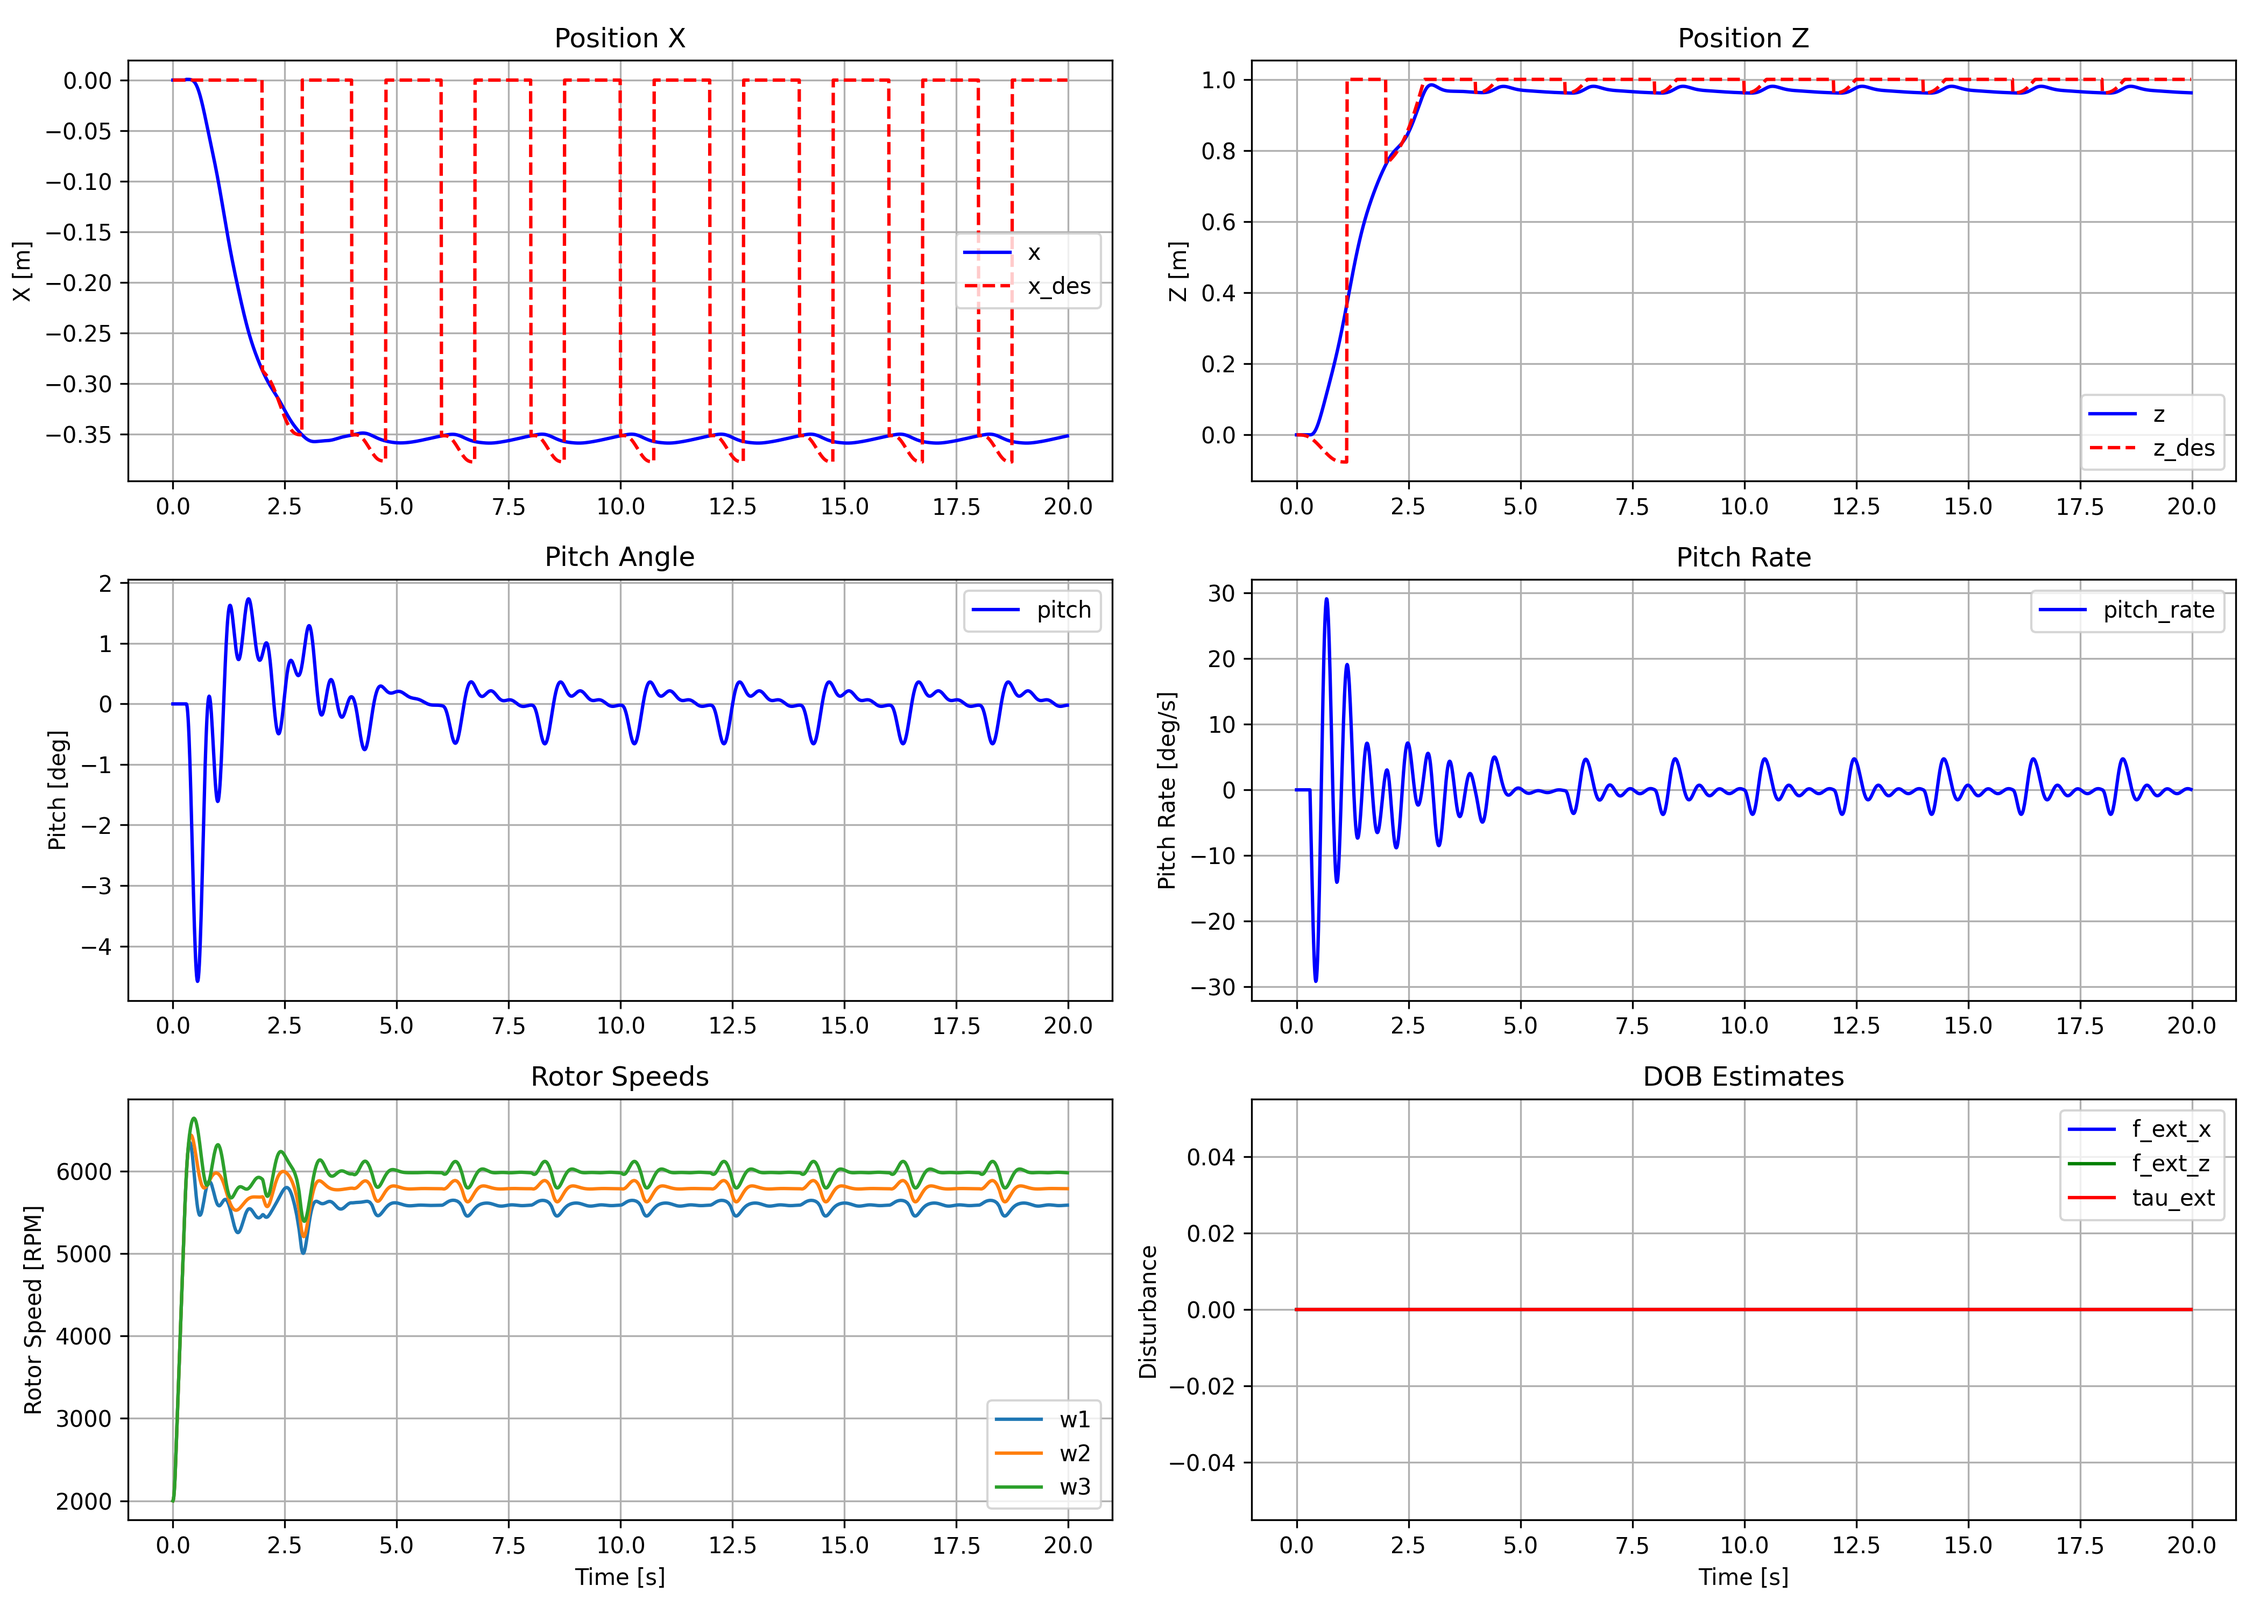
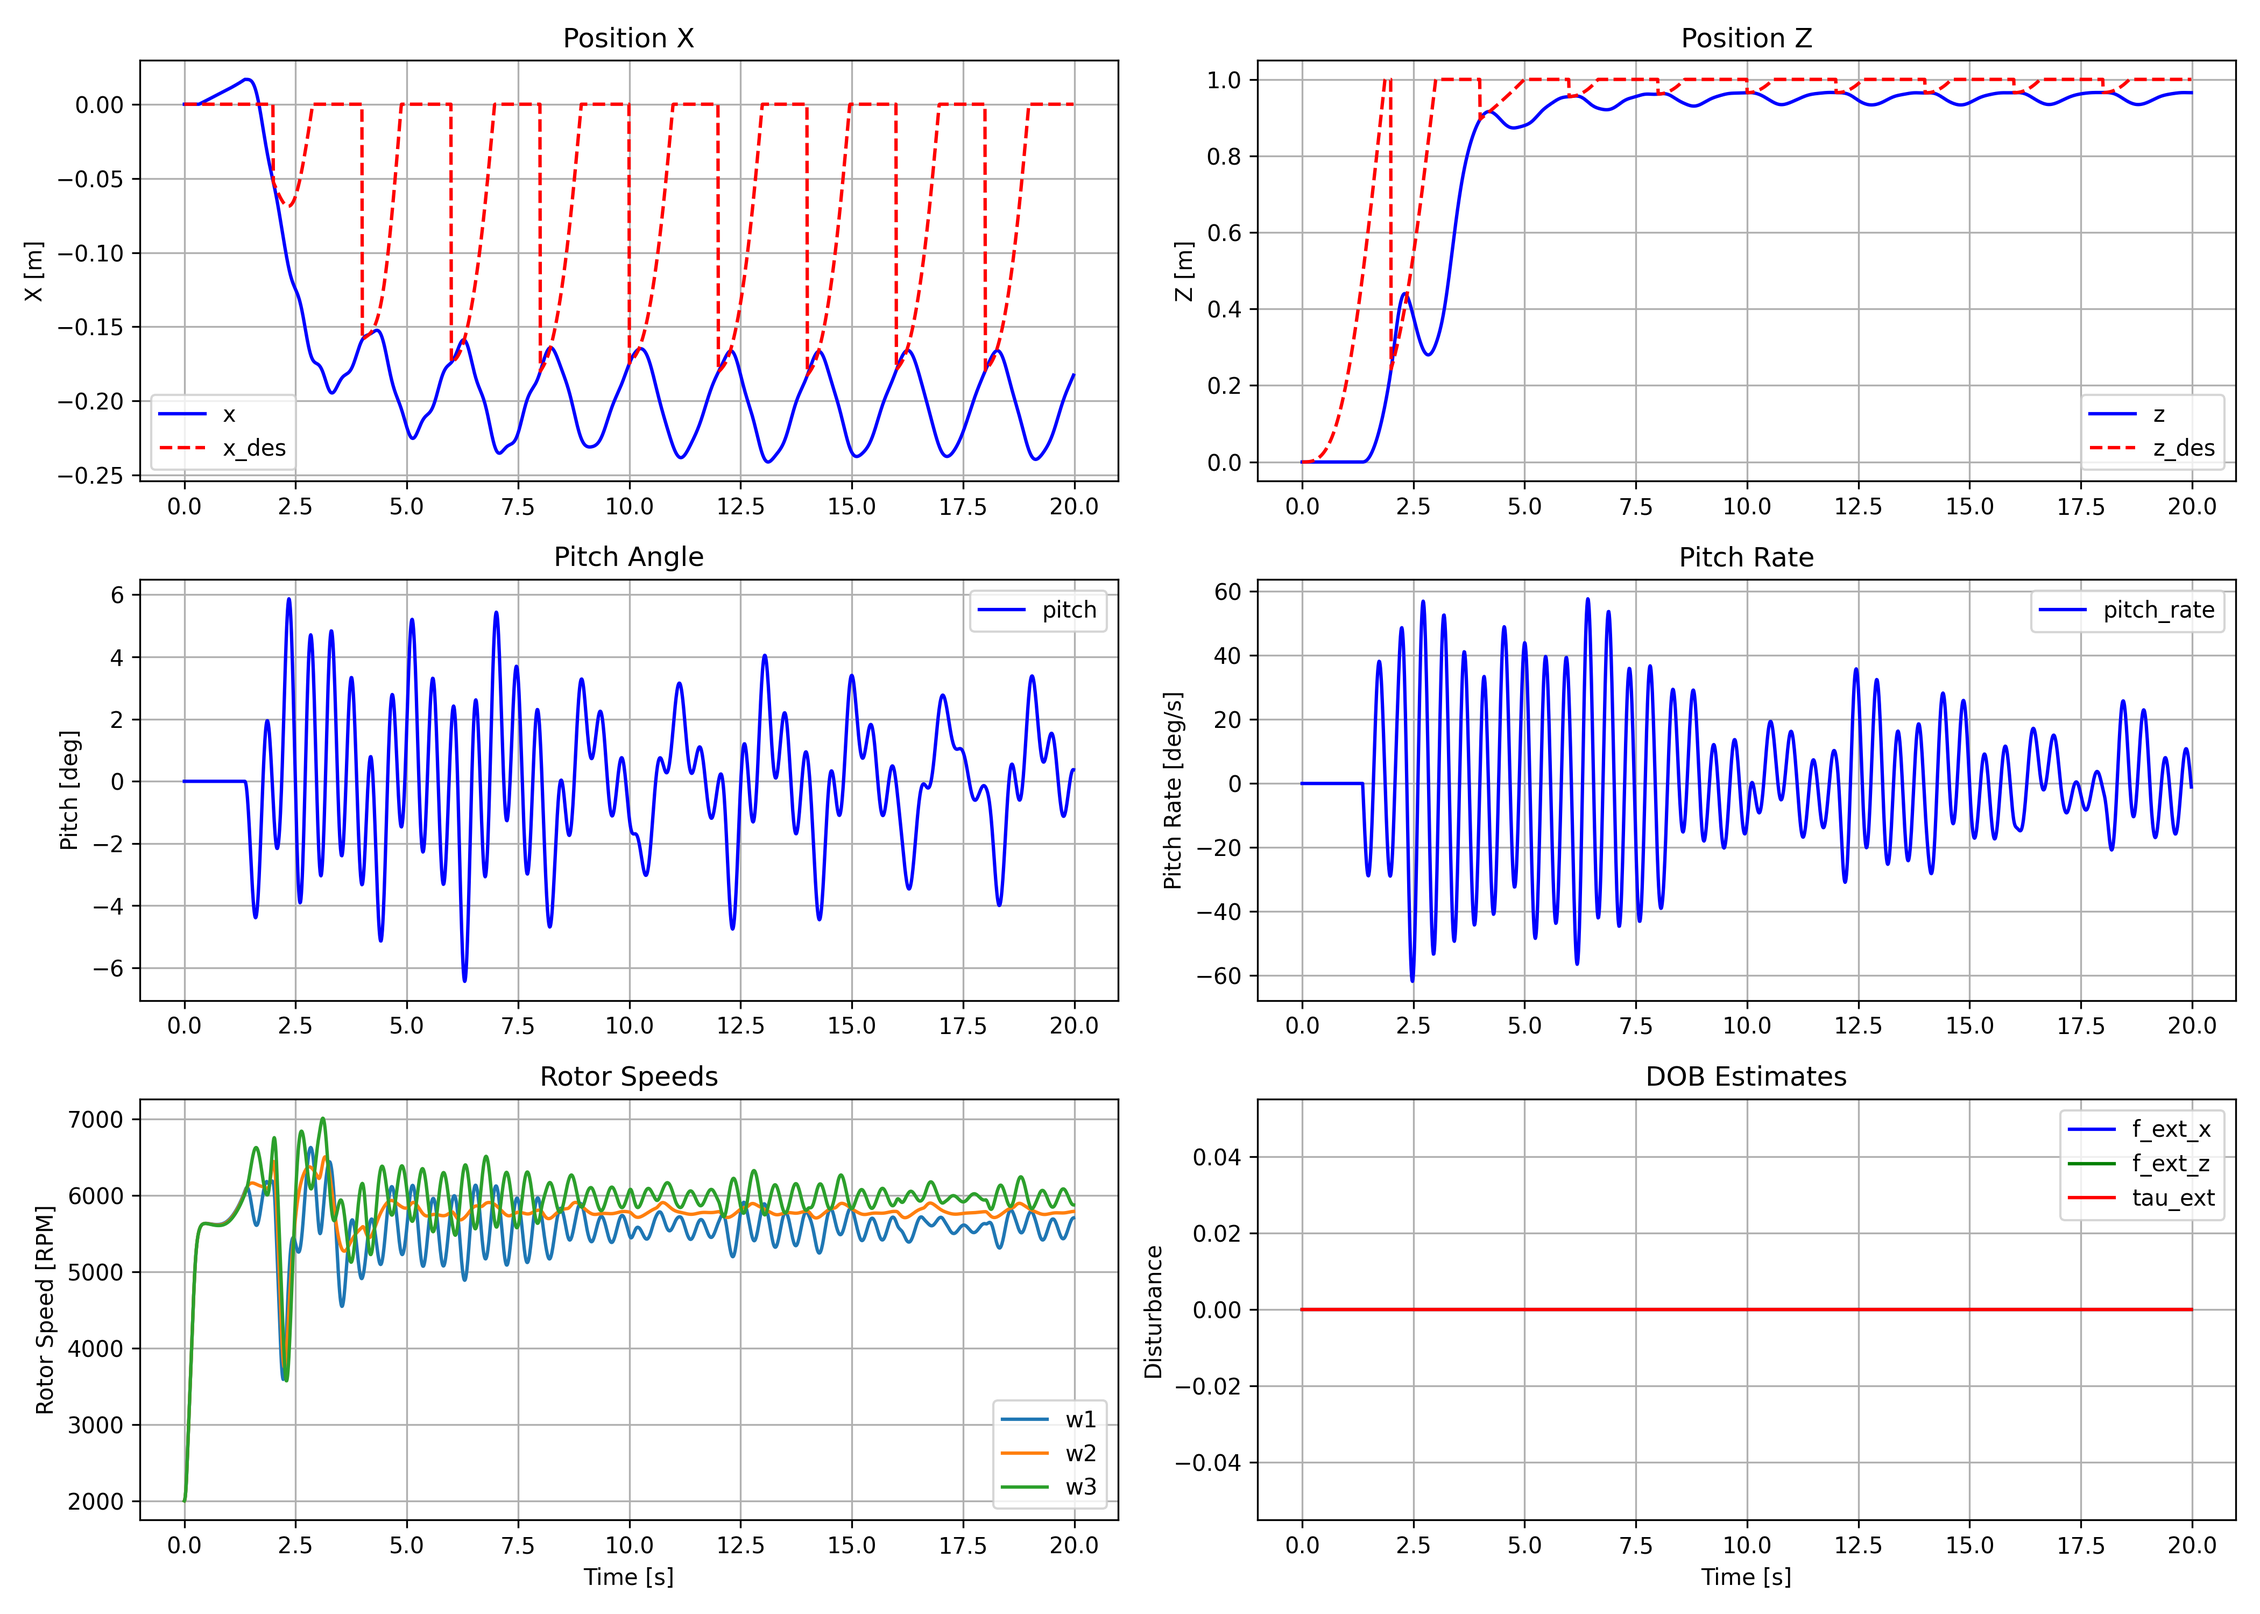
Simplify trajectory replanning with error-based Hehn trajectory
Refactored TrajectoryManager per user request:
- generate() now uses w0 = target - current_pos (error representation)
- Hehn trajectory drives error from w0 to zero
- Reference extraction: p_des = target - error(t), v_des = -d(error)/dt
- Velocity/acceleration negated for correct error dynamics (dw/dt = -v)
- Body-to-world velocity transform added for trajectory generation

Simplified replanning:
- Fixed 2-second interval (removed complex conditional logic)
- should_replan() reduced to simple time check
- Tracking uses solve() instead of solve_for_trajectory()

https://claude.ai/code/session_01GV4BW7oaZMroEfAuZQv2Ty

diff --git a/main_control_3d.py b/main_control_3d.py
@@ -173,7 +173,12 @@ def estimate_acceleration(state, w_rotor, C_T, m):
 
 
 class TrajectoryManager:
-    """Manages Hehn trajectory generation with online replanning."""
+    """Manages Hehn trajectory generation with online replanning.
+
+    Internally uses error representation: w0 = target - current_pos.
+    The Hehn trajectory drives w from w0 to 0 (error → 0).
+    Desired position: p_des = target - traj.get_position(t_rel)
+    """
 
     def __init__(self, params, target_2d):
         from ref_generation.hehn_trajectory import HehnTrajectoryGenerator, QuadParams
@@ -184,25 +189,23 @@ class TrajectoryManager:
         self.gen = HehnTrajectoryGenerator(qp=self.qp)
         self.time_scale = tp.get('time_scale', 1.0)
         self.target = np.array([target_2d[0], 0.0, target_2d[1]])
+        self.target_2d = np.array(target_2d)
 
         self.traj = None
-        self.t_start = 0.0  # Time when current trajectory started
-        self.last_replan_time = -np.inf  # Last absolute time when replanning occurred
-        self.replan_interval = 2.0  # Minimum interval between replans (seconds)
+        self.t_start = 0.0
+        self.last_replan_time = -np.inf
+        self.replan_interval = 2.0
 
     def generate(self, state_2d, acc_2d, t_now):
+        """Generate trajectory in error space: w0 = target - current_pos.
+        Since w = target - pos, dw/dt = -v, d²w/dt² = -a.
         """
-        Generate new trajectory from current state to target.
+        pos = np.array([state_2d[0], 0.0, state_2d[1]])
+        w0 = self.target - pos
+        vel0 = -np.array([state_2d[2], 0.0, state_2d[3]])
+        acc0 = -np.array([acc_2d[0], 0.0, acc_2d[1]])
 
-        :param state_2d: [px, pz, vx, vz]
-        :param acc_2d: [ax, az] current acceleration
-        :param t_now: current simulation time
-        """
-        pos0 = np.array([state_2d[0], 0.0, state_2d[1]])
-        vel0 = np.array([state_2d[2], 0.0, state_2d[3]])
-        acc0 = np.array([acc_2d[0], 0.0, acc_2d[1]])
-
-        traj_raw = self.gen.generate(pos0, vel0, acc0, target=self.target)
+        traj_raw = self.gen.generate(w0, vel0, acc0)
 
         if self.time_scale != 1.0:
             self.traj = ScaledTrajectory(traj_raw, self.time_scale)
@@ -212,33 +215,20 @@ class TrajectoryManager:
         self.t_start = t_now
         self.last_replan_time = t_now
 
-    def should_replan(self, t_now, current_pos=None):
-        """Check if replanning is needed based on time interval and tracking error.
-
-        Replanning occurs if:
-        1. Enough time has passed since last replan (replan_interval), AND
-        2. Either: trajectory is still active, OR position error exceeds threshold
-        """
-        time_since_replan = t_now - self.last_replan_time
-        if time_since_replan < self.replan_interval:
-            return False
-
-        t_rel = t_now - self.t_start
-        traj_active = t_rel < self.traj.duration - 0.5
-
-        # After trajectory ends, replan if position error is large
-        if not traj_active and current_pos is not None:
-            target_2d = self.target[[0, 2]]  # [x, z]
-            error = np.linalg.norm(current_pos - target_2d)
-            if error > 0.15:  # 15cm threshold
-                return True
-
-        return traj_active
+    def should_replan(self, t_now):
+        """Fixed-interval replanning."""
+        return (t_now - self.last_replan_time) >= self.replan_interval
 
     def get_reference(self, t_now):
-        """Get trajectory reference at current time (relative to trajectory start)."""
+        """Get desired [p_des, v_des] at current time.
+        p_des = target - error(t), v_des = -d(error)/dt
+        """
         t_rel = t_now - self.t_start
-        return self.traj, t_rel
+        err = self.traj.get_position(t_rel)
+        err_dot = self.traj.get_velocity(t_rel)
+        p_des = self.target_2d - np.array([err[0], err[2]])
+        v_des = -np.array([err_dot[0], err_dot[2]])
+        return p_des, v_des
 
     @property
     def duration(self):
@@ -442,23 +432,17 @@ def main():
             p_des = params['regulation_params']['setpoint_position']
             v_des = np.array([0.0, 0.0])
         else:
-            # Tracking: from hehn trajectory with replanning
-            traj, t_rel = traj_mgr.get_reference(t_now)
-
-            if traj_mgr.should_replan(t_now, current_pos=p):
-                # Estimate current acceleration from rotor speeds
+            # Tracking: replanning at fixed interval
+            if traj_mgr.should_replan(t_now):
                 acc_est = estimate_acceleration(s_body, w_rotor, C_T, m_nom)
-                state_2d = np.array([p[0], p[1], v_body[0], v_body[1]])
+                from utils.math_tool import pitch_to_rotm
+                v_world = pitch_to_rotm(theta) @ v_body
+                state_2d = np.array([p[0], p[1], v_world[0], v_world[1]])
                 traj_mgr.generate(state_2d, acc_est, t_now)
-                traj, t_rel = traj_mgr.get_reference(t_now)
                 if i % 100 == 0:
-                    print(f"[Replan] t={t_now:.2f}s, pos=[{p[0]:.3f}, {p[1]:.3f}], "
-                          f"new duration={traj.duration:.2f}s")
+                    print(f"[Replan] t={t_now:.2f}s, pos=[{p[0]:.3f}, {p[1]:.3f}]")
 
-            pos_3d = traj.get_position(t_rel)
-            vel_3d = traj.get_velocity(t_rel)
-            p_des = np.array([pos_3d[0], pos_3d[2]])  # x, z
-            v_des = np.array([vel_3d[0], vel_3d[2]])  # vx, vz
+            p_des, v_des = traj_mgr.get_reference(t_now)
 
         ref = np.concatenate([p_des, v_des])
 
@@ -485,11 +469,7 @@ def main():
 
         # Compute control
         if control_type == 'nmpc':
-            if control_mode == 'tracking':
-                traj, t_rel = traj_mgr.get_reference(t_now)
-                status, w_cmd = controller.solve_for_trajectory(s_body, t_rel, traj)
-            else:
-                status, w_cmd = controller.solve(s_body, ref)
+            status, w_cmd = controller.solve(s_body, ref)
 
             if dob is not None and t_now > 2.0:
                 # DOB compensation: subtract disturbance moment from NMPC output
